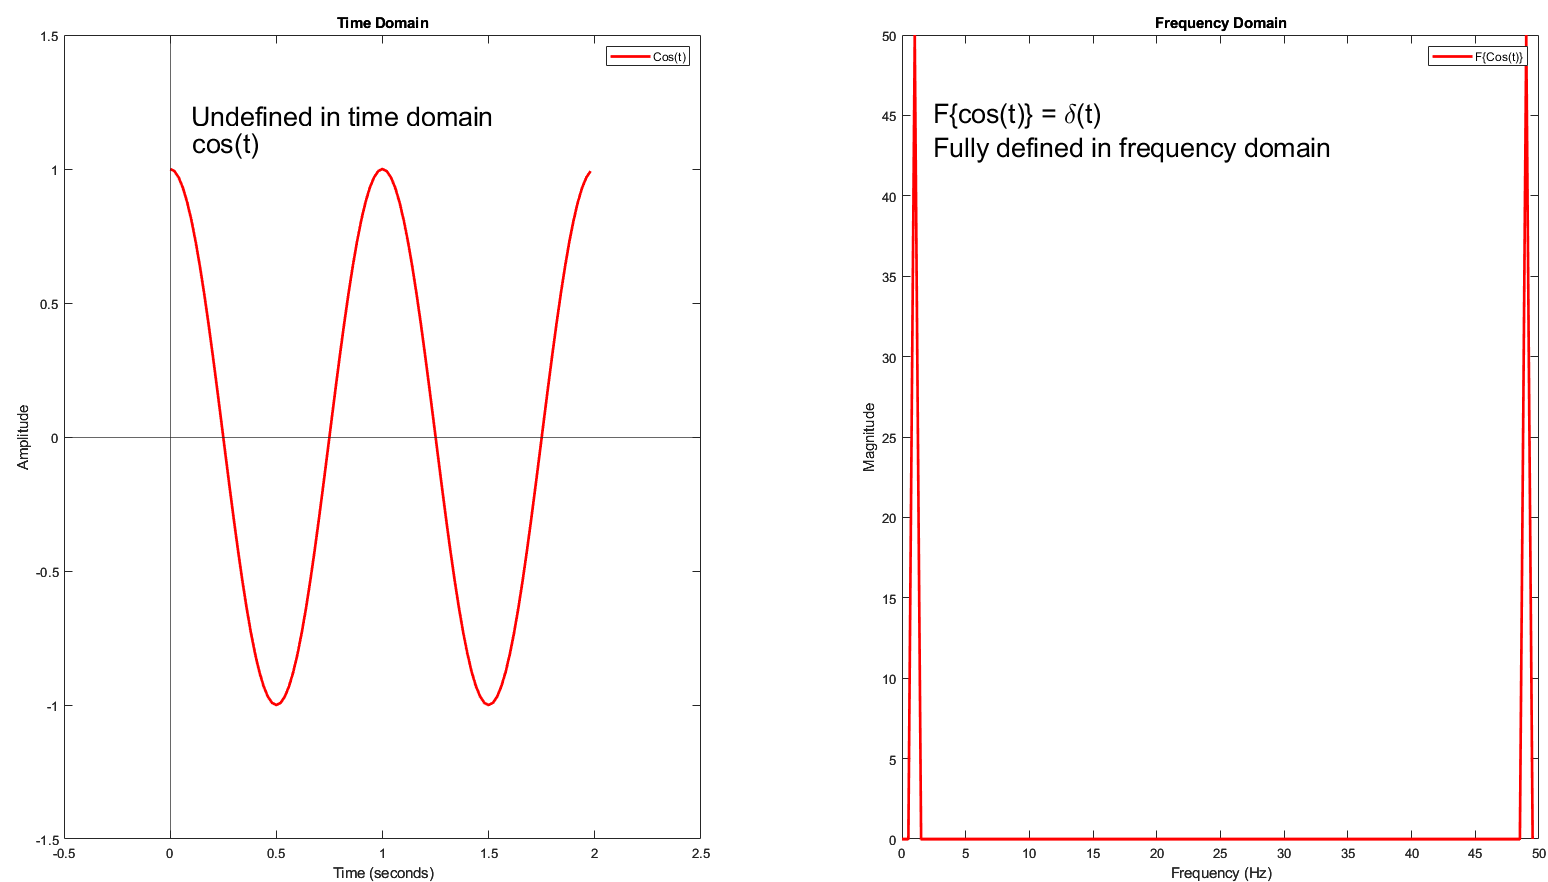
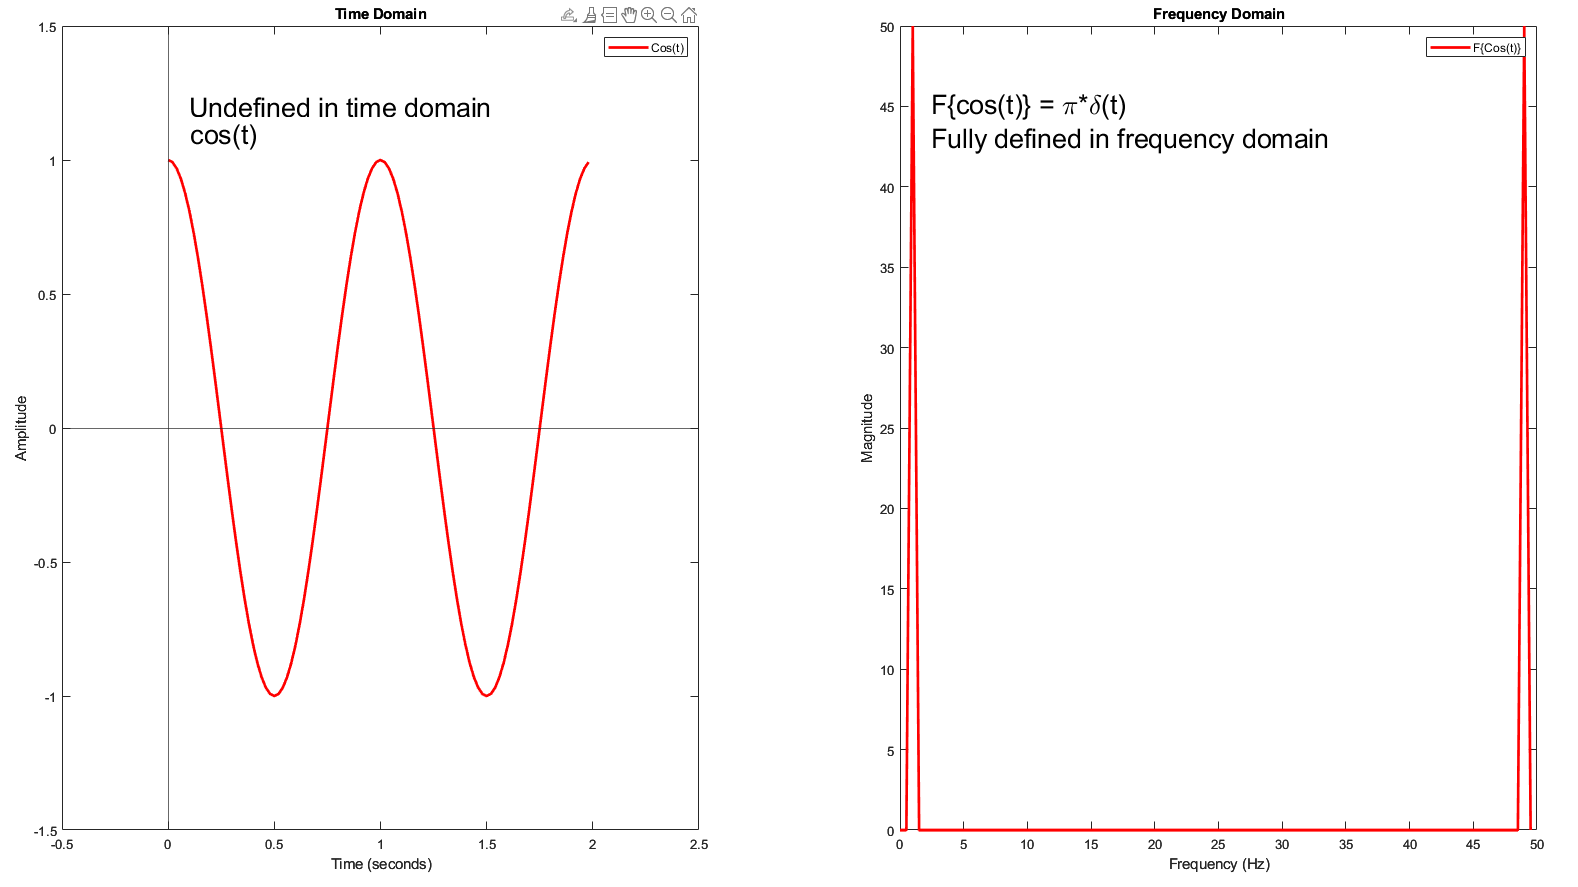
Update

diff --git a/HeisenbergUncertaintyPrinciple/main.m b/HeisenbergUncertaintyPrinciple/main.m
@@ -45,7 +45,7 @@ for i=1:NoD
         text(0,1.1,sprintf('   cos(t) ','Interpreter', 'latex'),'FontSize',20)
         text(0.1,1.2,"Undefined in time domain",'FontSize',20)
         subplot(122)
-        text(.1,45.2,sprintf('    F\\{cos(t)\\} = \\delta(t)','Interpreter', 'latex'),'FontSize',20)
+        text(.1,45.2,sprintf('    F\\{cos(t)\\} = \\pi*\\delta(t)','Interpreter', 'latex'),'FontSize',20)
         text(0.1,43.1,"    Fully defined in frequency domain",'FontSize',20)
         pause(2)
     end
